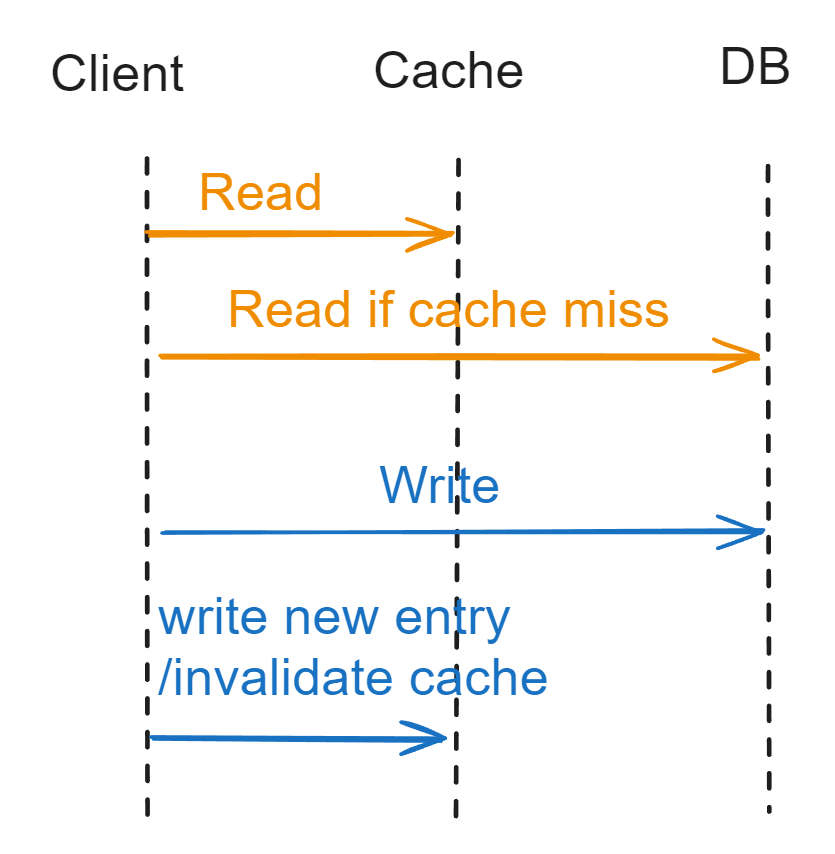
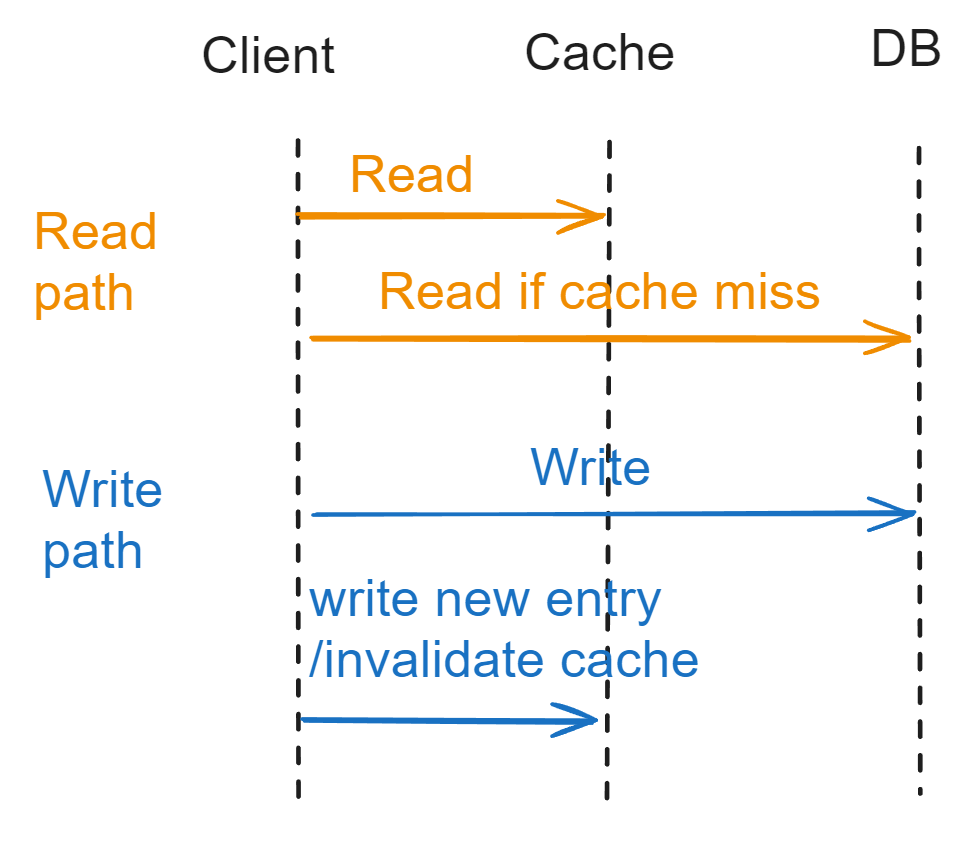
refactor change

diff --git a/cache_typical_topics/access_patterns.md b/cache_typical_topics/access_patterns.md
@@ -1,23 +1,27 @@
 - [Cache aside](#cache-aside)
   - [Flowchart](#flowchart)
   - [Cons: Data inconsistency](#cons-data-inconsistency)
-- [Read/Write through](#readwrite-through)
+- [Read through](#read-through)
+  - [Flowchart](#flowchart-1)
+  - [Cons: Data inconsistency](#cons-data-inconsistency-1)
+  - [Asynchronous version](#asynchronous-version)
+- [Write through](#write-through)
+  - [Flowchart](#flowchart-2)
+  - [Cons: Data inconsistency](#cons-data-inconsistency-2)
+  - [Asynchronous version](#asynchronous-version-1)
+- [Write behind/back cache](#write-behindback-cache)
   - [Def](#def)
   - [Pros](#pros)
   - [Cons](#cons)
-- [Write behind/back cache](#write-behindback-cache)
-  - [Def](#def-1)
-  - [Pros](#pros-1)
-  - [Cons](#cons-1)
     - [Stale data](#stale-data)
     - [Lose update](#lose-update)
 - [Write around cache](#write-around-cache)
+  - [Def](#def-1)
+  - [Pros](#pros-1)
+- [Refresh ahead](#refresh-ahead)
   - [Def](#def-2)
   - [Pros](#pros-2)
-- [Refresh ahead](#refresh-ahead)
-  - [Def](#def-3)
-  - [Pros](#pros-3)
-  - [Cons](#cons-2)
+  - [Cons](#cons-1)
 - [References](#references)
 
 # Cache aside
@@ -31,29 +35,43 @@
 ## Cons: Data inconsistency
 * Possible solution with distributed lock
 
-![Cache aside pattern](../.gitbook/assets/cache_cacheaside_cons.png)
+![Cache aside data inconistency](../.gitbook/assets/cache_cacheaside_cons.png)
 
-# Read/Write through
+# Read through
 
-## Def
-* Read Through / Lazy Loading: Load data into the cache only when necessary. If application needs data for some key x, search in the cache first. If data is present, return the data, otherwise, retrieve the data from data source, put it into the cache & then return.
-* Write through: Write go through the cache and write is confirmed as success only if writes to DB and the cache both succeed.
+## Flowchart
+* In read path, cache will act on behalf of client; on write path, it is the same as cache aside. 
 
-![Read write through pattern](.gitbook/assets/cache_readwritethrough_pattern.png)
+![Cache read through](../.gitbook/assets/cache_readthrough.png)
 
-## Pros
-* It does not load or hold all the data together, it’s on demand. Suitable for cases when you know that your application might not need to cache all data from data source in a particular category.
-* Client does not need to manage two connections towards cache and repository, separately. Everything could be managed by the cache itself. 
+## Cons: Data inconsistency
+* Since it shares the same write path as cache aside, it has the same data inconsistency issue with cache aside. 
 
-## Cons
-* For cache miss, there are 3 network round trips. Check in the cache, retrieve from database, pour the data into the cache. So cache causes noticeable delay in the response.
-* Stale data might become an issue. If data changes in the database & the cache key is not expired yet, it will throw stale data to the application.
+## Asynchronous version
+* For the step to update cache, put it in an asynchronous job. This step will only improve the perf a lot when the cached item is large. 
+
+![Cache read through](../.gitbook/assets/cache_readthrough_improve.png)
+
+# Write through
+* In the read path, it is the same as cache aside; in the write path, cache will act on behalf of client.
+
+## Flowchart
+
+![Cache write through](../.gitbook/assets/cache_writethrough.png)
+
+## Cons: Data inconsistency
+* It has similar problem.  
+
+## Asynchronous version
+* For the step to update cache, put it in an asynchronous job. This step will only improve the perf a lot when the cached item is large. 
+
+![Cache read through](../.gitbook/assets/cache_writethrough_improve.png)
 
 # Write behind/back cache
 ## Def
 *  In this strategy, the application writes data directly to the caching system. Then after a certain configured interval, the written data is asynchronously synced to the underlying data source. So here the caching service has to maintain a queue of ‘write’ operations so that they can be synced in order of insertion.
 
-![write behind pattern](images/cache_writebehind_pattern.png)
+![write behind pattern](../.gitbook/assets/cache_writebehind_pattern.png)
 
 ## Pros
 * Suitable for high read & write throughput system. Used more often in operating system's write to cache
